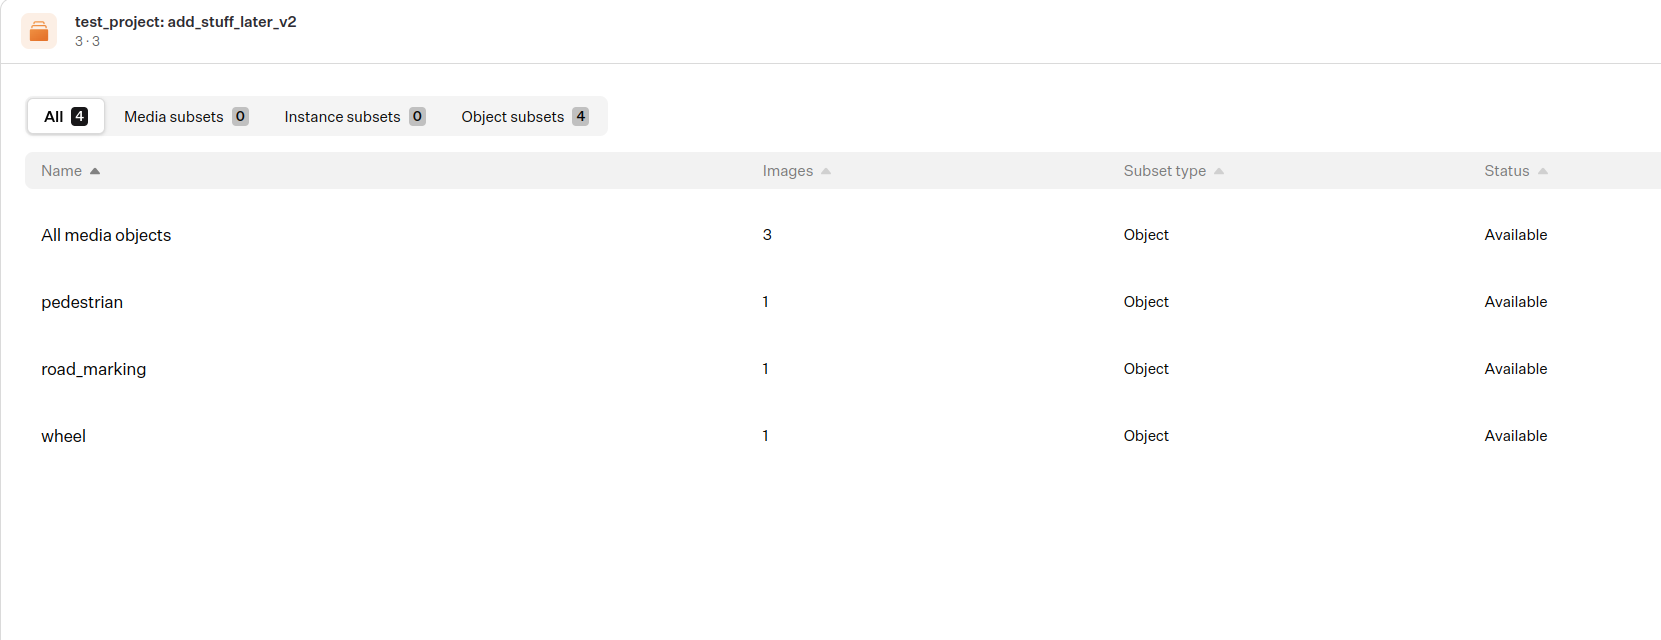
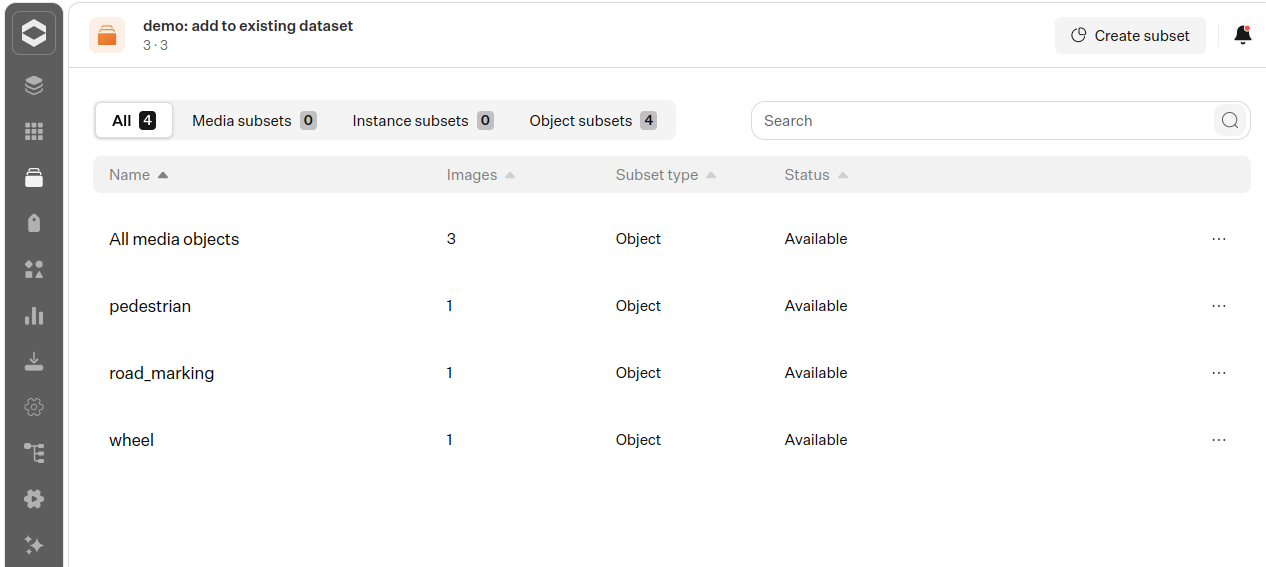
apply suggestions from reviews

diff --git a/docs/example_code/upload_new_data_to_existing_dataset/upload_new_data_to_existing_dataset.py b/docs/example_code/upload_new_data_to_existing_dataset/upload_new_data_to_existing_dataset.py
@@ -9,7 +9,7 @@ from hari_client import hari_uploader
 from hari_client import HARIClient
 from hari_client import models
 
-# Set the dataset_id here
+# Set the dataset_id here to the id of a dataset you created with the quickstart.py example script
 dataset_id = uuid.UUID("YOUR_DATASET_ID")
 
 config = Config()
@@ -43,24 +43,20 @@ initial_attributes = hari.get_attributes(
 # It's intended by HARI that attributes with the same name should reuse the same id.
 # In case an attribute name is used for medias and media objects, the attribute id used
 # for the medias has to be different from the one used for the media objects.
-media_attribute_id_lookup: dict[str, uuid.UUID] = {}
 media_attribute_lookup: dict[str, models.AttributeResponse] = {}
-media_object_attribute_id_lookup: dict[str, uuid.UUID] = {}
 media_object_attribute_lookup: dict[str, models.AttributeResponse] = {}
 for attribute in initial_attributes:
     if attribute.annotatable_type == models.DataBaseObjectType.MEDIA:
-        if attribute.name not in media_attribute_id_lookup:
-            media_attribute_id_lookup[attribute.name] = attribute.id
+        if attribute.name not in media_attribute_lookup:
             media_attribute_lookup[attribute.name] = attribute
     elif attribute.annotatable_type == models.DataBaseObjectType.MEDIAOBJECT:
-        if attribute.name not in media_object_attribute_id_lookup:
-            media_object_attribute_id_lookup[attribute.name] = attribute.id
+        if attribute.name not in media_object_attribute_lookup:
             media_object_attribute_lookup[attribute.name] = attribute
 
 print(
     "Found attributes:\n"
-    f"  media_attribute_ids: {len(media_attribute_id_lookup)}\n"
-    f"  media_object_attribute_ids: {len(media_object_attribute_id_lookup)}"
+    f"  media_attributes: {len(media_attribute_lookup)}\n"
+    f"  media_object_attributes: {len(media_object_attribute_lookup)}"
 )
 
 # 2. Set up new medias, media objects and attributes
@@ -132,47 +128,53 @@ if len(duplicate_media_objects) > 0:
 new_media_object.set_object_category_subset_name("my_new_object_category")
 object_categories = {"my_new_object_category"}
 
-# add an already known initial attribute to the media and media object, and one new attribute to each
-# in the example case we know that the existing media attribute value type is number
+# Add an already known initial attribute to the media and media object.
+# In the example case we know that the existing media attribute value type is number.
+existing_media_attribute = list(media_attribute_lookup.values())[0]
 new_media.add_attribute(
     hari_uploader.HARIAttribute(
-        id=list(media_attribute_id_lookup.values())[0],
-        name=list(media_attribute_id_lookup.keys())[0],
-        attribute_type=list(media_attribute_lookup.values())[0].attribute_type,
+        id=existing_media_attribute.id,
+        name=existing_media_attribute.name,
+        attribute_type=existing_media_attribute.attribute_type,
         value=500,
     )
 )
-# the new attribute needs a new id
-# remember the new attribute id for potential later reuse
-media_attribute_id_lookup["new_media_attribute"] = uuid.uuid4()
+
+# Add one new attribute, it needs a new id.
+# Remember the new attribute for potential later reuse.
 new_media_attribute = hari_uploader.HARIAttribute(
-    id=media_attribute_id_lookup["new_media_attribute"],
+    id=uuid.uuid4(),
     name="new_media_attribute",
     value="hello_world",
 )
+media_attribute_lookup[new_media_attribute.name] = new_media_attribute
 new_media.add_attribute(new_media_attribute)
 
 # add attributes to the media object
 # in the example case we know that the existing media object attribute value type is boolean
+existing_media_object_attribute = list(media_object_attribute_lookup.values())[0]
 new_media_object.add_attribute(
     hari_uploader.HARIAttribute(
-        id=list(media_object_attribute_id_lookup.values())[0],
-        name=list(media_object_attribute_id_lookup.keys())[0],
-        attribute_type=list(media_object_attribute_lookup.values())[0].attribute_type,
+        id=existing_media_object_attribute.id,
+        name=existing_media_object_attribute.name,
+        attribute_type=existing_media_object_attribute.attribute_type,
         value=True,
     )
 )
 # the new attribute needs a new id
 # remember the new attribute id for potential later reuse
-media_object_attribute_id_lookup["new_media_object_attribute"] = uuid.uuid4()
 new_media_object_attribute = hari_uploader.HARIAttribute(
-    id=media_object_attribute_id_lookup["new_media_object_attribute"],
+    id=uuid.uuid4(),
     name="new_media_object_attribute",
     value=42,
 )
+media_object_attribute_lookup[
+    new_media_object_attribute.name
+] = new_media_object_attribute
 new_media_object.add_attribute(new_media_object_attribute)
 
-# 3. Set existing subset_id on the new media and media object
+# 3. Add the new media and media object to the existing subset by
+# appending the existing subset_id to the new media and media object "subset_ids" field.
 # In the example case we know there's a subset called "All media objects" (see quickstart.py).
 # We have to add its subset_id to the new media and the new media object.
 all_dataset_subsets = hari.get_subsets_for_dataset(dataset_id=dataset_id)

diff --git a/docs/example_code/upload_new_data_to_existing_dataset/README.md b/docs/example_code/upload_new_data_to_existing_dataset/README.md
@@ -2,7 +2,7 @@
 
 The script `upload_new_data_to_existing_dataset.py` demonstrates how to upload new data to an existing dataset that was previously created using the `quickstart.py` script.
 
-> :warning: <b>Disclaimer: In most cases it makes more sense to upload your data as a new dataset - especially when you've already done a lot of work with that dataset through annotation runs</b>
+> :warning: <b>Disclaimer: In the case that you've already did a lot of work with your dataset with annotation runs, we recommend that you create a new dataset and upload your new data there in order to keep a better overview.</b>
 
 Note: The script was written with hari_client version 2.0.3.
 
@@ -16,6 +16,7 @@ Things that are implemented in the script:
   - by reusing the existing attribute ids and attribute types
 - create a new media subset and a new media object subset with the new data, so that the new data can be easily identified in HARI
 - add the new media object to the existing `All media objects` subset
+  - in order to add a media or media object to an existing subset, you have to append the subset id to the media or media object's `subset_ids` field.
 
 ## What to change for your own dataset
 
